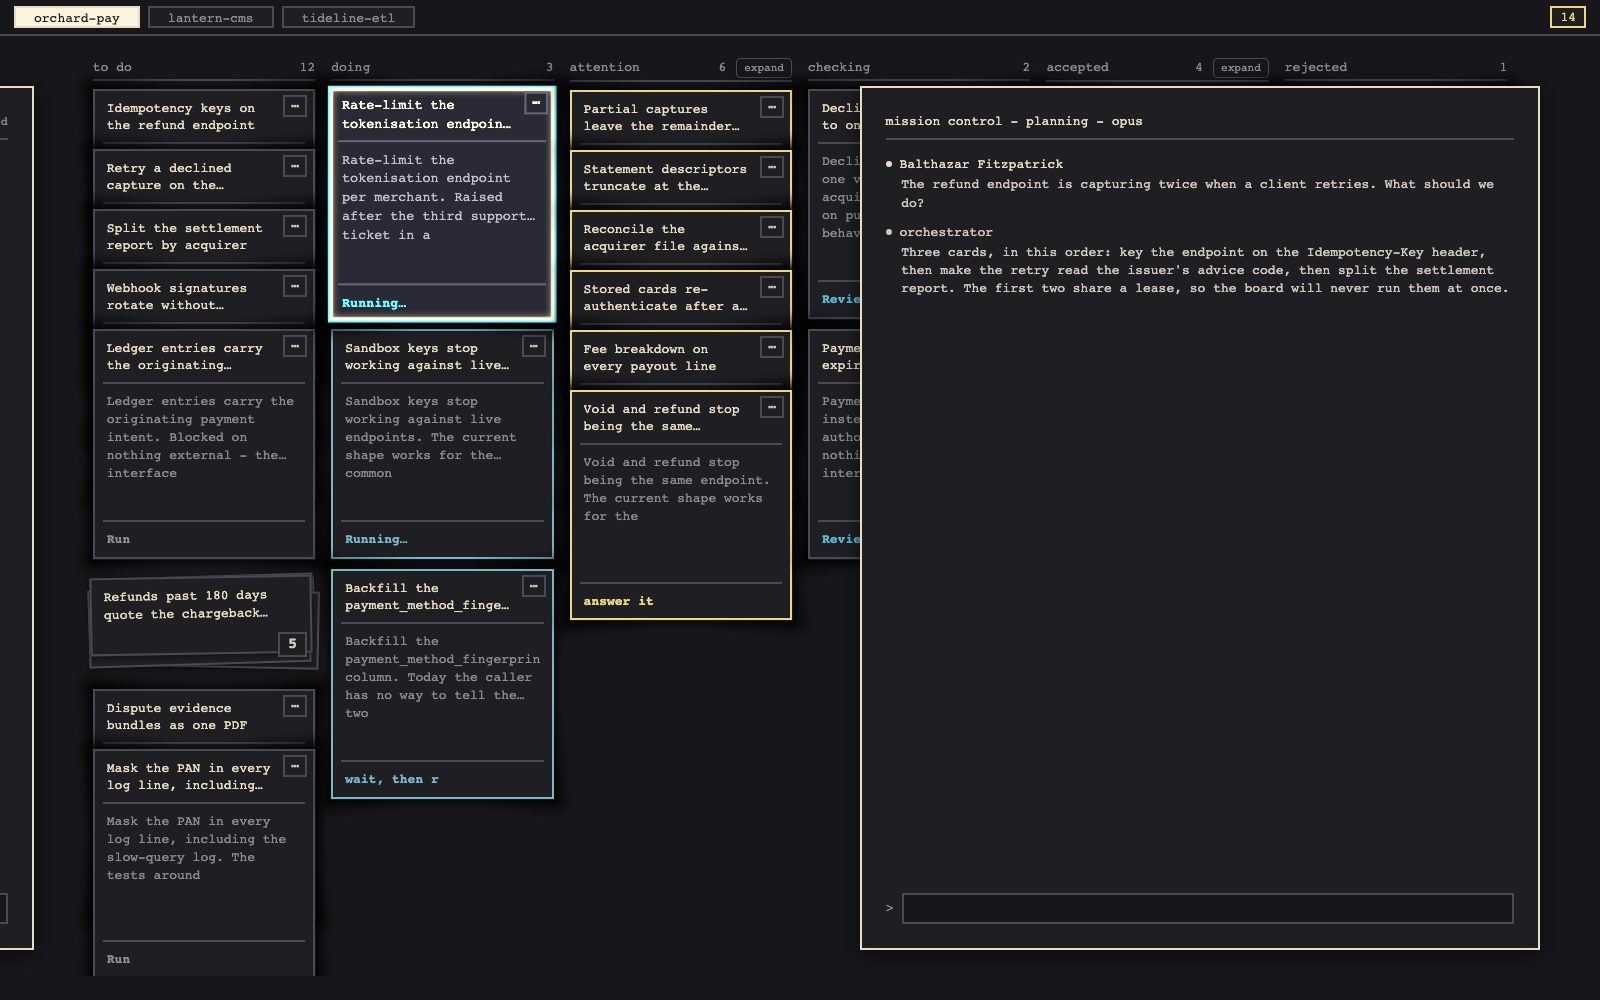
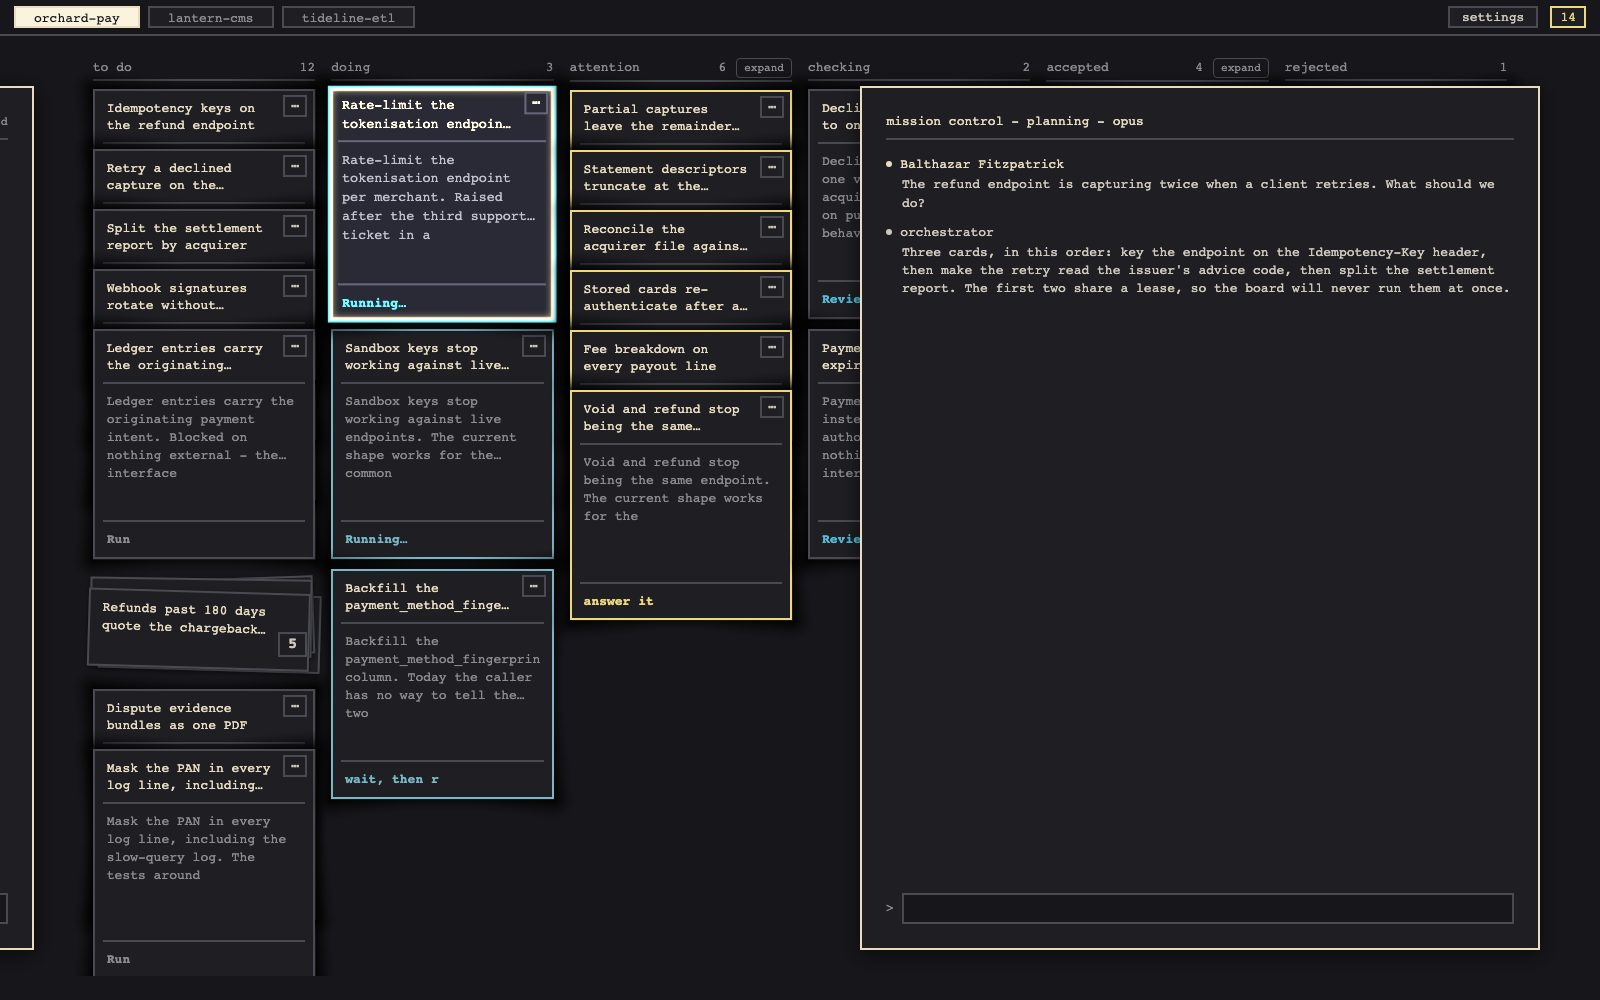
fixed the settings panel never loading, kept moved cards at column size and grouped the bar corner
Claude-Session: https://claude.ai/code/session_01XmtRBGJcqAinqjTiU9ZwRH

diff --git a/smortboard/ui/settings.js b/smortboard/ui/settings.js
@@ -74,7 +74,7 @@ function clearChildren(el) {
 // mounting them is a separate card (out of scope here) - this only maintains the path list, via
 // the same whole-list-replace PATCH /api/settings the other board-wide values already use.
 
-const rp = {input: null, listEl: null, statusEl: null};
+const readPaths = {input: null, listEl: null, statusEl: null};
 
 function renderReadPathRow(path) {
   const row = document.createElement('div');
@@ -100,16 +100,16 @@ async function loadReadPaths() {
   try {
     paths = await currentReadPaths();
   } catch (err) {
-    clearChildren(rp.listEl);
-    rp.listEl.appendChild(settingsHazardPlaceholder(`could not load: ${err.message}`));
+    clearChildren(readPaths.listEl);
+    readPaths.listEl.appendChild(settingsHazardPlaceholder(`could not load: ${err.message}`));
     return;
   }
-  clearChildren(rp.listEl);
+  clearChildren(readPaths.listEl);
   if (!paths.length) {
-    rp.listEl.appendChild(settingsHazardPlaceholder('no folders yet'));
+    readPaths.listEl.appendChild(settingsHazardPlaceholder('no folders yet'));
     return;
   }
-  paths.forEach(path => rp.listEl.appendChild(renderReadPathRow(path)));
+  paths.forEach(path => readPaths.listEl.appendChild(renderReadPathRow(path)));
 }
 
 async function patchReadPaths(paths) {
@@ -121,19 +121,19 @@ async function patchReadPaths(paths) {
 }
 
 async function addReadPath() {
-  const raw = rp.input.value.trim();
+  const raw = readPaths.input.value.trim();
   if (!raw) return;
-  rp.statusEl.textContent = 'adding...';
-  rp.statusEl.className = 'boards-status';
+  readPaths.statusEl.textContent = 'adding...';
+  readPaths.statusEl.className = 'boards-status';
   const existing = await currentReadPaths();
   const {ok, body} = await patchReadPaths([...existing, raw]);
   if (!ok) {
-    rp.statusEl.textContent = (body && body.error) || `could not add ${raw}`;
-    rp.statusEl.className = 'boards-status boards-error';
+    readPaths.statusEl.textContent = (body && body.error) || `could not add ${raw}`;
+    readPaths.statusEl.className = 'boards-status boards-error';
     return;
   }
-  rp.input.value = '';
-  rp.statusEl.textContent = '';
+  readPaths.input.value = '';
+  readPaths.statusEl.textContent = '';
   await loadReadPaths();
 }
 
@@ -141,8 +141,8 @@ async function removeReadPath(path) {
   const existing = await currentReadPaths();
   const {ok, body} = await patchReadPaths(existing.filter(p => p !== path));
   if (!ok) {
-    rp.statusEl.textContent = (body && body.error) || `could not remove ${path}`;
-    rp.statusEl.className = 'boards-status boards-error';
+    readPaths.statusEl.textContent = (body && body.error) || `could not remove ${path}`;
+    readPaths.statusEl.className = 'boards-status boards-error';
     return;
   }
   await loadReadPaths();
@@ -175,7 +175,7 @@ function buildReadPathsSection() {
   addRow.append(input, add, status);
 
   box.append(list, addRow);
-  Object.assign(rp, {input, listEl: list, statusEl: status});
+  Object.assign(readPaths, {input, listEl: list, statusEl: status});
   return box;
 }
 
@@ -190,7 +190,7 @@ SETTINGS_SECTIONS.push({
 // a board's own number only ever holds it back further, never past the global cap - an unset board
 // row behaves exactly like today, no board-specific limit at all.
 
-const pl = {globalInput: null, globalStatus: null, boardsList: null};
+const parallelCaps = {globalInput: null, globalStatus: null, boardsList: null};
 
 function parallelParseInput(raw) {
   const trimmed = raw.trim();
@@ -235,7 +235,7 @@ function buildGlobalParallelRow() {
   input.addEventListener('blur', save);
 
   row.append(input, status);
-  Object.assign(pl, {globalInput: input, globalStatus: status});
+  Object.assign(parallelCaps, {globalInput: input, globalStatus: status});
   return row;
 }
 
@@ -327,19 +327,19 @@ function renderBoardParallelRow(board) {
 async function loadParallelSection() {
   try {
     const settings = await api('/api/settings');
-    pl.globalInput.value = settings.max_parallel == null ? '' : String(settings.max_parallel);
-    pl.globalStatus.textContent = '';
+    parallelCaps.globalInput.value = settings.max_parallel == null ? '' : String(settings.max_parallel);
+    parallelCaps.globalStatus.textContent = '';
   } catch (err) {
-    pl.globalStatus.textContent = `could not load: ${err.message}`;
-    pl.globalStatus.className = 'boards-status boards-error';
+    parallelCaps.globalStatus.textContent = `could not load: ${err.message}`;
+    parallelCaps.globalStatus.className = 'boards-status boards-error';
   }
   try {
     const boards = await api('/api/boards');
-    clearChildren(pl.boardsList);
-    boards.forEach(b => pl.boardsList.appendChild(renderBoardParallelRow(b)));
+    clearChildren(parallelCaps.boardsList);
+    boards.forEach(b => parallelCaps.boardsList.appendChild(renderBoardParallelRow(b)));
   } catch (err) {
-    clearChildren(pl.boardsList);
-    pl.boardsList.appendChild(settingsHazardPlaceholder(`could not load boards: ${err.message}`));
+    clearChildren(parallelCaps.boardsList);
+    parallelCaps.boardsList.appendChild(settingsHazardPlaceholder(`could not load boards: ${err.message}`));
   }
 }
 
@@ -353,7 +353,7 @@ function buildParallelSection() {
   boardsLabel.textContent = 'per board (blank = no board-specific limit or daily budget)';
   const boardsList = document.createElement('div');
   boardsList.className = 'boards-list';
-  Object.assign(pl, {boardsList});
+  Object.assign(parallelCaps, {boardsList});
   box.append(globalLabel, buildGlobalParallelRow(), boardsLabel, boardsList);
   return box;
 }
@@ -503,9 +503,7 @@ function toggleSettingsPanel() {
 }
 
 // ---- top-right button, fixed to the viewport --------------------------------------------------
-// NOT appended inside #board-bar: board.js's renderBoardBar() does `bar.innerHTML = ''` on every
-// board list load, which would wipe out a child living there - the same gotcha the attention
-// indicator (inbox.js) already ran into. fixed to the viewport instead, at the board bar's corner.
+// lives in board.js's bar corner, between the queue status and the attention count
 
 function buildSettingsButton() {
   const btn = document.createElement('div');
@@ -513,7 +511,7 @@ function buildSettingsButton() {
   btn.textContent = 'settings';
   btn.title = 'settings (o)';
   btn.onclick = () => toggleSettingsPanel();
-  document.body.appendChild(btn);
+  barCorner().appendChild(btn);
   return btn;
 }
 

diff --git a/smortboard/ui/board.js b/smortboard/ui/board.js
@@ -54,6 +54,24 @@ async function apiOrError(path, opts) {
 
 // ---- board bar ------------------------------------------------------------------
 
+// the bar's right-hand group - queue status, settings, attention count - in one fixed flex row, so
+// they never draw over each other. outside #board-bar because renderBoardBar() wipes its children;
+// the bar reserves the group's width (--bar-corner-width) so board tabs never run under it
+function barCorner() {
+  let el = document.getElementById('bar-corner');
+  if (el) return el;
+  el = document.createElement('div');
+  el.id = 'bar-corner';
+  el.className = 'bar-corner';
+  document.body.appendChild(el);
+  if (typeof ResizeObserver === 'function') {
+    new ResizeObserver(() => {
+      document.documentElement.style.setProperty('--bar-corner-width', `${el.offsetWidth}px`);
+    }).observe(el);
+  }
+  return el;
+}
+
 function renderBoardBar() {
   const bar = document.getElementById('board-bar');
   bar.innerHTML = '';
@@ -134,7 +152,7 @@ function renderBuckets(cards) {
 }
 
 // rebinds the 2D grid nav to whatever is currently in the buckets - a full renderBuckets always
-// needs this, and so does a targeted redrawCardStrip that moved a strip to a new bucket
+// needs this, and so does redrawColumns after a poll moved a card to a new bucket
 function refreshBucketNav() {
   const row = document.getElementById('bucket-row');
   bucketsApi = makeBuckets(row, {onExitTop: returnToBoardBar});
@@ -276,23 +294,42 @@ function pollRun(cardId) {
 // A CARD CAN CHANGE COLUMN MID-RUN, NOT ONLY WHEN THE RUN ENDS. todo -> doing and doing -> checking
 // happen inside lifecycle.py while the run is still going, and whatever wrote the change (this
 // page's own run, another run, a key, mission control) already committed it before we asked. so
-// the board polls every card's status and updated_at and redraws only the strips that moved -
-// leaving every other strip, and the DOM in general, untouched
+// the board polls every card's status and updated_at and redraws only the columns a changed card
+// left or joined, through the same column layout as a full render - every other column is untouched
 const FOLLOW_RUNS_MS = 4000;
 let followedCardStates = null; // Map<card id, `${status}|${updated_at}`> as of the last poll
 
-// swaps one card's strip for a freshly rendered one in its (possibly new) bucket, and refocuses it
-// if it held focus - the open card's own strip is never passed in here, see followRunsOnce
-function redrawCardStrip(card) {
-  const old = document.querySelector(`.card-strip[data-card-id="${card.id}"]`);
-  const bucket = document.querySelector(`.bucket[data-status="${columnFor(card)}"] .bucket-rows`);
-  if (!old || !bucket) return;
-  const hadFocus = old.contains(document.activeElement);
-  const strip = renderCardStrip(card);
-  bucket.appendChild(strip);
-  old.remove();
-  if (hadFocus) { strip.focus(); indicateCardFocus(strip); }
-  applyCardShadows(bucket);
+function bucketHolding(cardId) {
+  return document.querySelector(`.card-strip[data-card-id="${cardId}"]`)?.closest('.bucket') || null;
+}
+
+// swaps a card into its (possibly new) column's list and redraws each touched column whole, so a
+// moved card gets the column's card size and pile layout rather than its unfitted natural height.
+// focus stays on whichever card had it, by id, since a redraw rebuilds every row in the column
+function redrawColumns(changed) {
+  const activeCardId = document.activeElement?.dataset?.cardId ?? null;
+  const touched = new Set();
+  changed.forEach(card => {
+    const from = bucketHolding(card.id);
+    const to = document.querySelector(`.bucket[data-status="${columnFor(card)}"]`);
+    [from, to].forEach(bucket => {
+      const pile = bucket?.querySelector('.bucket-rows')?._pile;
+      if (!pile) return;
+      pile.sorted = pile.sorted.filter(c => c.id !== card.id);
+      if (bucket === to) pile.sorted.push(card);
+      touched.add(bucket);
+    });
+  });
+  touched.forEach(bucket => {
+    const rows = bucket.querySelector('.bucket-rows');
+    renderBucketColumn(bucket, rows._pile.sorted, bucket.dataset.status);
+  });
+  if (!activeCardId) return;
+  const strip = document.querySelector(`.card-strip[data-card-id="${activeCardId}"]`);
+  if (!strip) return;
+  strip.tabIndex = 0;
+  strip.focus();
+  indicateCardFocus(strip);
 }
 
 async function followRunsOnce() {
@@ -305,18 +342,21 @@ async function followRunsOnce() {
 
   const next = new Map(before);
   const toRedraw = [];
+  // a column holding the open card is never rebuilt under its panel, so a change that touches it
+  // waits too - its entry is left stale, and the next poll after the card closes redraws it
+  const openBucket = openCard ? bucketHolding(openCard.cardId) : null;
   cards.forEach(card => {
     const state = states.get(card.id);
     if (before.get(card.id) === state) return;
-    // the open card keeps its panel - its entry is left stale here so the next poll sees it as
-    // changed again, and it gets its redraw once the card closes
     if (openCard && openCard.cardId === card.id) return;
+    const to = document.querySelector(`.bucket[data-status="${columnFor(card)}"]`);
+    if (openBucket && (bucketHolding(card.id) === openBucket || to === openBucket)) return;
     toRedraw.push(card);
     next.set(card.id, state);
   });
   followedCardStates = next;
   if (!toRedraw.length) return false;
-  toRedraw.forEach(redrawCardStrip);
+  redrawColumns(toRedraw);
   refreshBucketNav();
   return true;
 }

diff --git a/smortboard/ui/layout.css b/smortboard/ui/layout.css
@@ -19,6 +19,8 @@ body {
   display: flex;
   gap: 8px;
   padding: 6px var(--inset-x, 15px);
+  /* room for the fixed bar corner, so a long row of board tabs stops short of it */
+  padding-right: calc(var(--inset-x, 15px) + var(--bar-corner-width, 0px) + 16px);
   border-bottom: 2px solid var(--grey-border);
   flex: 0 0 auto;
 }
@@ -480,15 +482,24 @@ body {
 }
 .comment-body { line-height: 1.4; }
 
-/* ---- settings (o): the top-right button and the panel it opens ------------------------------
-   NOT inside #board-bar - board.js's renderBoardBar() wipes it on every board list load, the same
-   gotcha the attention indicator (inbox.js) already found. fixed beside that indicator instead,
-   inset far enough that a two-digit attention count never runs under it. */
-.settings-button {
+/* ---- the bar corner: queue status, settings, attention count ---------------------------------
+   one fixed row at the board bar's top-right (board.js barCorner), ordered left to right and
+   spaced by the flex gap, so a growing status or a two-digit count pushes its neighbours instead of
+   drawing over them */
+.bar-corner {
   position: fixed;
   z-index: 5;
   top: 6px;
-  right: calc(var(--inset-x, 15px) + 60px);
+  right: var(--inset-x, 15px);
+  height: calc(var(--row-height, 31px) * 0.56 + 5px);
+  display: flex;
+  align-items: center;
+  gap: 12px;
+}
+
+/* ---- settings (o): the button in the bar corner and the panel it opens ---------------------- */
+.settings-button {
+  order: 2;
   height: calc(var(--row-height, 31px) * 0.56 + 5px);
   padding: 0 12px;
   display: flex;

diff --git a/smortboard/ui/inbox.js b/smortboard/ui/inbox.js
@@ -24,14 +24,12 @@ function sinceLabel(iso, now = Date.now()) {
 // ---- top-right indicator, polled independently of the panel being open ------------------------
 
 function buildIndicator() {
-  // NOT appended inside #board-bar: board.js's renderBoardBar() does `bar.innerHTML = ''` on
-  // every board list load, which would wipe out a child living there. Fixed to the viewport
-  // instead, at the board bar's top-right corner, so it survives every re-render untouched.
+  // lives in board.js's bar corner, beside the queue status and settings, never inside #board-bar
   const el = document.createElement('div');
   el.className = 'attention-indicator dim';
   el.title = 'attention inbox (n)';
   el.onclick = () => openInboxPanel();
-  document.body.appendChild(el);
+  barCorner().appendChild(el);
   return el;
 }
 

diff --git a/smortboard/ui/scheduler.js b/smortboard/ui/scheduler.js
@@ -19,7 +19,8 @@ function scheduleStatusEl() {
     el.id = 'schedule-status';
     el.className = 'schedule-status';
     el.hidden = true;
-    document.getElementById('board-bar').appendChild(el);
+    // the bar corner, not #board-bar: a board list reload would wipe it from there
+    barCorner().appendChild(el);
   }
   return el;
 }

diff --git a/smortboard/ui/inbox.css b/smortboard/ui/inbox.css
@@ -3,10 +3,7 @@
    stripes - comes from base.css; this file only positions and sizes them for the inbox. */
 
 .attention-indicator {
-  position: fixed;
-  z-index: 5;
-  top: 6px;
-  right: var(--inset-x, 15px);
+  order: 3;
   min-width: 20px;
   height: calc(var(--row-height, 31px) * 0.56 + 5px);
   padding: 0 8px;

diff --git a/smortboard/ui/scheduler.css b/smortboard/ui/scheduler.css
@@ -4,8 +4,7 @@
    own look. */
 
 .schedule-status {
-  margin-left: auto;
-  align-self: center;
+  order: 1;
   font-size: var(--font-size, 13px);
   color: var(--text-dim);
   white-space: nowrap;

diff --git a/tests/test_ui_globals.py b/tests/test_ui_globals.py
@@ -1,0 +1,32 @@
+"""every script index.html loads shares one global scope, so a top-level name declared twice kills the
+second script at load - replay.js and settings.js both declaring `rp` silently disabled settings"""
+
+import re
+from collections import defaultdict
+from pathlib import Path
+
+from smortboard.server.assets import resolve_asset
+
+UI = Path(__file__).resolve().parent.parent / "smortboard" / "ui"
+
+# a declaration at column 0 is top level in these files; nested code is always indented
+_DECLARATION = re.compile(r"^(?:const|let|class)\s+([A-Za-z_$][\w$]*)", re.MULTILINE)
+
+
+def _page_scripts() -> list[str]:
+    html = (UI / "index.html").read_text()
+    return re.findall(r'<script src="/ui/([^"]+)"', html)
+
+
+def test_the_page_loads_scripts():
+    assert "board.js" in _page_scripts()
+
+
+def test_no_top_level_name_is_declared_by_two_scripts():
+    owners = defaultdict(list)
+    for name in _page_scripts():
+        source = resolve_asset(name).decode()
+        for declared in _DECLARATION.findall(source):
+            owners[declared].append(name)
+    clashes = {name: files for name, files in owners.items() if len(files) > 1}
+    assert clashes == {}, f"declared at top level in more than one script: {clashes}"
